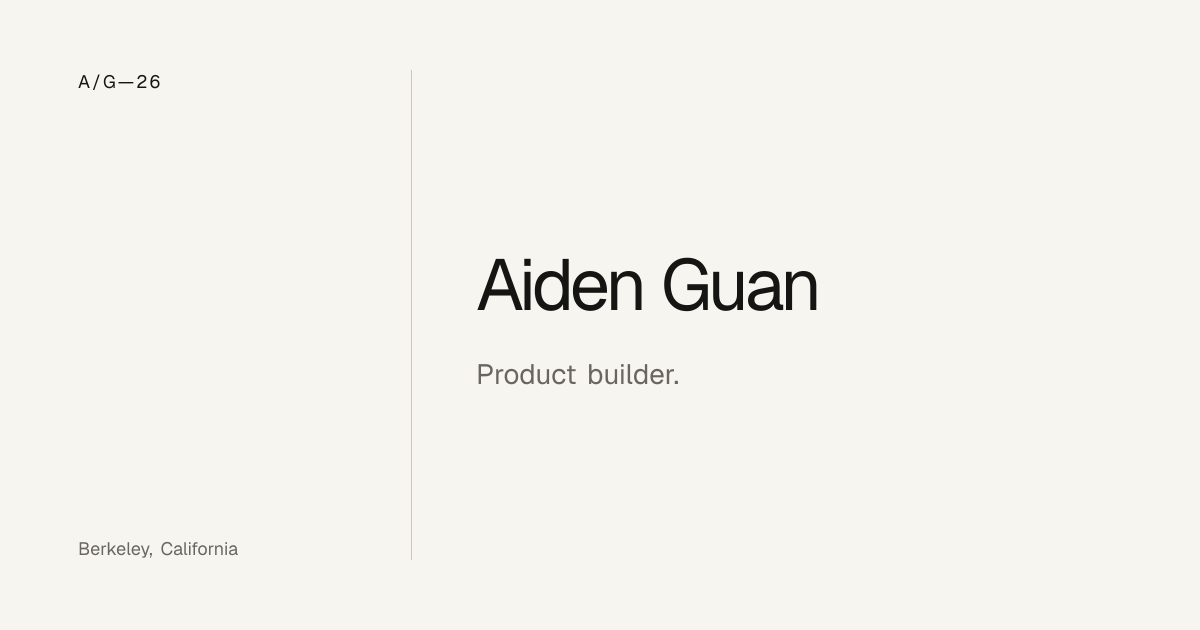
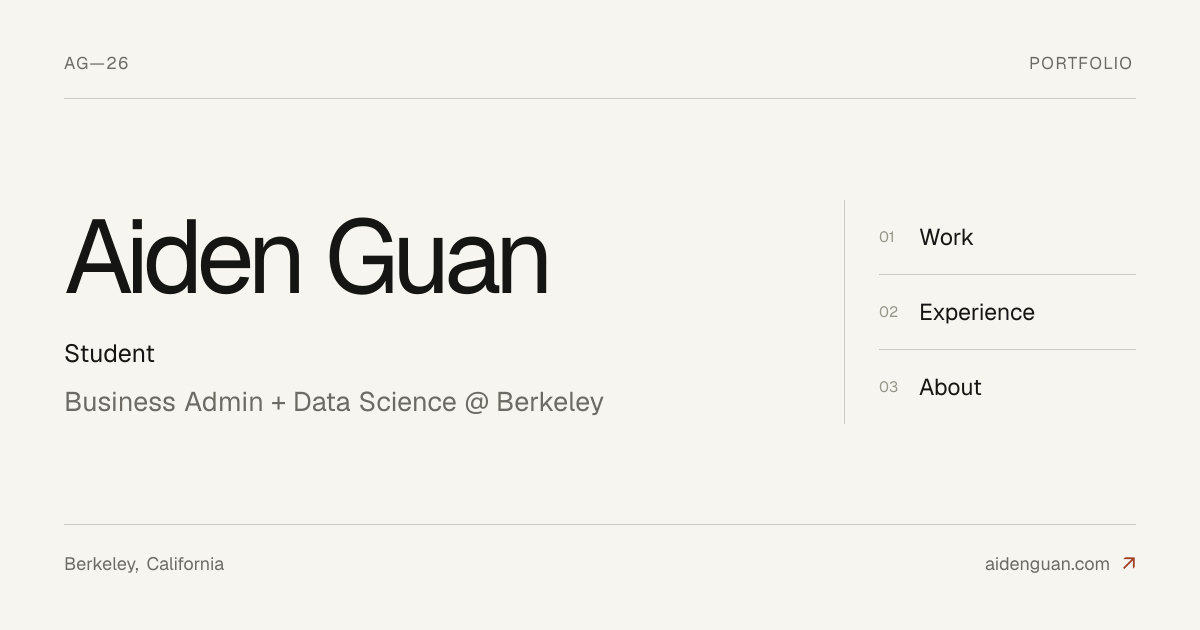
Refresh portfolio social previews and sharing metadata

diff --git a/lib/portfolio-social-image.tsx b/lib/portfolio-social-image.tsx
@@ -1,0 +1,134 @@
+import { ImageResponse } from "next/og";
+import { getPortfolioContent } from "@/lib/portfolio-content";
+import { getSiteUrl } from "@/lib/site-url";
+
+// Both sharing cards use the same edited content and visual treatment.
+export async function createPortfolioSocialImage() {
+  const { profile, navigation } = await getPortfolioContent();
+  const name = profile.name || "Portfolio";
+  const domain = new URL(getSiteUrl()).hostname.replace(/^www\./, "");
+
+  return new ImageResponse(
+    (
+      <div
+        style={{
+          width: "100%",
+          height: "100%",
+          display: "flex",
+          flexDirection: "column",
+          background: "#f6f5f0",
+          color: "#151513",
+          fontFamily: "sans-serif",
+          padding: "52px 64px",
+        }}
+      >
+        <div
+          style={{
+            display: "flex",
+            alignItems: "center",
+            justifyContent: "space-between",
+            paddingBottom: 24,
+            borderBottom: "1px solid #cbc9c0",
+            color: "#6c6a63",
+            fontSize: 17,
+            letterSpacing: "0.08em",
+          }}
+        >
+          <div style={{ display: "flex" }}>{profile.mark}</div>
+          <div style={{ display: "flex" }}>PORTFOLIO</div>
+        </div>
+
+        <div style={{ display: "flex", flex: 1, alignItems: "center" }}>
+          <div
+            style={{
+              display: "flex",
+              flexDirection: "column",
+              width: 780,
+              paddingRight: 48,
+            }}
+          >
+            <div
+              style={{
+                display: "flex",
+                fontSize: name.length > 24 ? 64 : name.length > 16 ? 80 : 104,
+                letterSpacing: "-0.065em",
+                lineHeight: 1.02,
+                maxHeight: 210,
+                overflow: "hidden",
+              }}
+            >
+              {name}
+            </div>
+            {profile.descriptor ? (
+              <div style={{ display: "flex", marginTop: 28, fontSize: 25 }}>
+                {profile.descriptor}
+              </div>
+            ) : null}
+            {profile.introduction ? (
+              <div
+                style={{
+                  display: "flex",
+                  marginTop: 12,
+                  maxWidth: 590,
+                  maxHeight: 84,
+                  overflow: "hidden",
+                  color: "#6c6a63",
+                  fontSize: 27,
+                  lineHeight: 1.45,
+                }}
+              >
+                {profile.introduction}
+              </div>
+            ) : null}
+          </div>
+
+          <div
+            style={{
+              display: "flex",
+              flexDirection: "column",
+              flex: 1,
+              paddingLeft: 34,
+              borderLeft: "1px solid #cbc9c0",
+            }}
+          >
+            {navigation.map((item, index) => (
+              <div
+                key={item.id}
+                style={{
+                  display: "flex",
+                  alignItems: "center",
+                  padding: "22px 0",
+                  borderBottom: index < navigation.length - 1 ? "1px solid #cbc9c0" : "none",
+                }}
+              >
+                <div style={{ display: "flex", width: 40, color: "#97948a", fontSize: 15 }}>
+                  {String(index + 1).padStart(2, "0")}
+                </div>
+                <div style={{ display: "flex", fontSize: 23 }}>{item.label}</div>
+              </div>
+            ))}
+          </div>
+        </div>
+
+        <div
+          style={{
+            display: "flex",
+            alignItems: "center",
+            justifyContent: "space-between",
+            borderTop: "1px solid #cbc9c0",
+            paddingTop: 24,
+            color: "#6c6a63",
+            fontSize: 18,
+          }}
+        >
+          <div style={{ display: "flex" }}>{profile.location}</div>
+          <div style={{ display: "flex", alignItems: "center", gap: 10 }}>
+            {domain}
+            <span style={{ color: "#9f3e24", fontSize: 22 }}>↗</span>
+          </div>
+        </div>
+      </div>
+    ),
+    { width: 1200, height: 630 },
+  );
+}

diff --git a/app/opengraph-image.tsx b/app/opengraph-image.tsx
@@ -1,66 +1,10 @@
-import { ImageResponse } from "next/og";
-import { profile } from "@/content/portfolio";
+import { createPortfolioSocialImage } from "@/lib/portfolio-social-image";
 
-export const alt = `${profile.name} — ${profile.descriptor}`;
+export const alt = "A personal index of work, experience and study.";
 export const size = { width: 1200, height: 630 };
 export const contentType = "image/png";
+export const revalidate = 3600;
 
-export default function OpenGraphImage() {
-  return new ImageResponse(
-    (
-      <div
-        style={{
-          width: "100%",
-          height: "100%",
-          display: "flex",
-          background: "#f6f5f0",
-          color: "#151513",
-          fontFamily: "Arial, sans-serif",
-          padding: "70px 78px",
-        }}
-      >
-        <div
-          style={{
-            width: "32%",
-            display: "flex",
-            flexDirection: "column",
-            justifyContent: "space-between",
-            borderRight: "1px solid #c9c7bf",
-            paddingRight: "48px",
-          }}
-        >
-          <div style={{ display: "flex", fontSize: 18, letterSpacing: "0.12em" }}>
-            {profile.mark}
-          </div>
-          <div style={{ display: "flex", fontSize: 18, color: "#68665f" }}>
-            {profile.location}
-          </div>
-        </div>
-        <div
-          style={{
-            flex: 1,
-            display: "flex",
-            flexDirection: "column",
-            justifyContent: "center",
-            paddingLeft: "64px",
-          }}
-        >
-          <div style={{ display: "flex", fontSize: 72, letterSpacing: "-0.055em" }}>
-            {profile.name}
-          </div>
-          <div
-            style={{
-              display: "flex",
-              marginTop: 24,
-              fontSize: 28,
-              color: "#68665f",
-            }}
-          >
-            {profile.descriptor}
-          </div>
-        </div>
-      </div>
-    ),
-    size,
-  );
+export default async function OpenGraphImage() {
+  return createPortfolioSocialImage();
 }

diff --git a/app/layout.tsx b/app/layout.tsx
@@ -9,14 +9,20 @@ const siteUrl = getSiteUrl();
 
 export async function generateMetadata(): Promise<Metadata> {
   const { profile, seo } = await getPortfolioContent();
+  const title = seo.title || `${profile.name || "Personal"} | Portfolio`;
+  const description = seo.description || [
+    `Work, experience and projects from ${profile.name || "the portfolio author"}.`,
+    profile.introduction,
+  ].filter(Boolean).join(" ");
+  const socialDescription = seo.socialDescription || description;
 
   return {
     metadataBase: new URL(siteUrl),
     title: {
-      default: seo.title,
+      default: title,
       template: `%s — ${profile.name}`,
     },
-    description: seo.description,
+    description,
     authors: [{ name: profile.name }],
     creator: profile.name,
     alternates: { canonical: "/" },
@@ -25,16 +31,15 @@ export async function generateMetadata(): Promise<Metadata> {
     openGraph: {
       type: "website",
       url: "/",
-      title: seo.title,
-      description: seo.socialDescription,
+      title,
+      description: socialDescription,
       siteName: profile.name,
-      images: [{ url: "/opengraph-image", width: 1200, height: 630 }],
+      locale: "en_US",
     },
     twitter: {
       card: "summary_large_image",
-      title: seo.title,
-      description: seo.socialDescription,
-      images: ["/opengraph-image"],
+      title,
+      description: socialDescription,
     },
   };
 }

diff --git a/content/portfolio.ts b/content/portfolio.ts
@@ -116,10 +116,11 @@ export const defaultPortfolio: PortfolioContent = {
     ],
   },
   seo: {
-    title: "Aiden Guan — product builder",
-    description: "Aiden Guan is a product builder studying business at UC Berkeley.",
+    title: "Aiden Guan | Portfolio",
+    description:
+      "Work, experience and projects from Aiden Guan, studying Business Administration and Data Science at UC Berkeley.",
     socialDescription:
-      "Selected work and experience from Aiden Guan, a product builder at UC Berkeley.",
+      "Work, experience and projects from Aiden Guan. Business Administration + Data Science at UC Berkeley.",
   },
   navigation: [
     { id: "work", label: "Work" },

diff --git a/app/twitter-image.tsx b/app/twitter-image.tsx
@@ -1,0 +1,10 @@
+import { createPortfolioSocialImage } from "@/lib/portfolio-social-image";
+
+export const alt = "A personal index of work, experience and study.";
+export const size = { width: 1200, height: 630 };
+export const contentType = "image/png";
+export const revalidate = 3600;
+
+export default async function TwitterImage() {
+  return createPortfolioSocialImage();
+}

diff --git a/app/api/admin/content/route.ts b/app/api/admin/content/route.ts
@@ -46,6 +46,8 @@ export async function PUT(request: Request) {
   try {
     const content = await savePortfolioContent(body);
     revalidatePath("/");
+    revalidatePath("/opengraph-image");
+    revalidatePath("/twitter-image");
     return Response.json({ content }, { headers: noStore });
   } catch (error) {
     const message =
